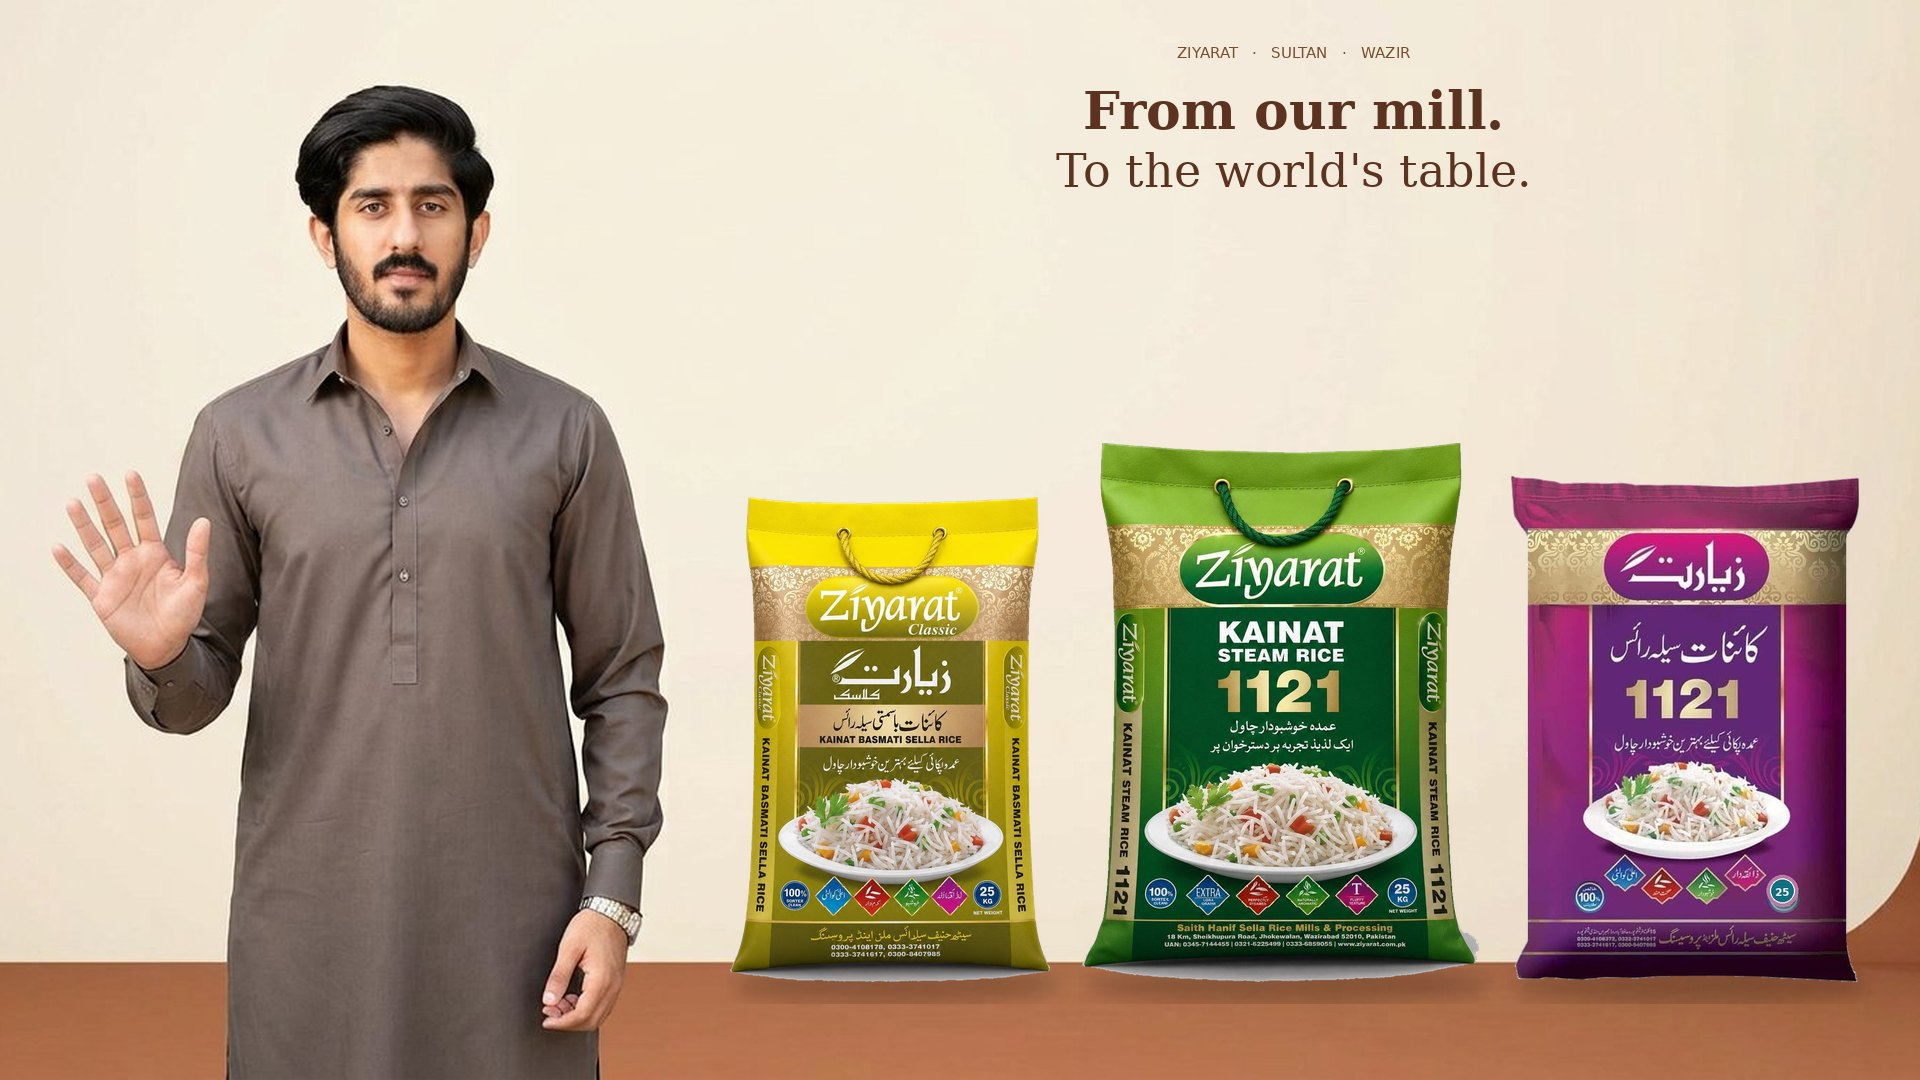
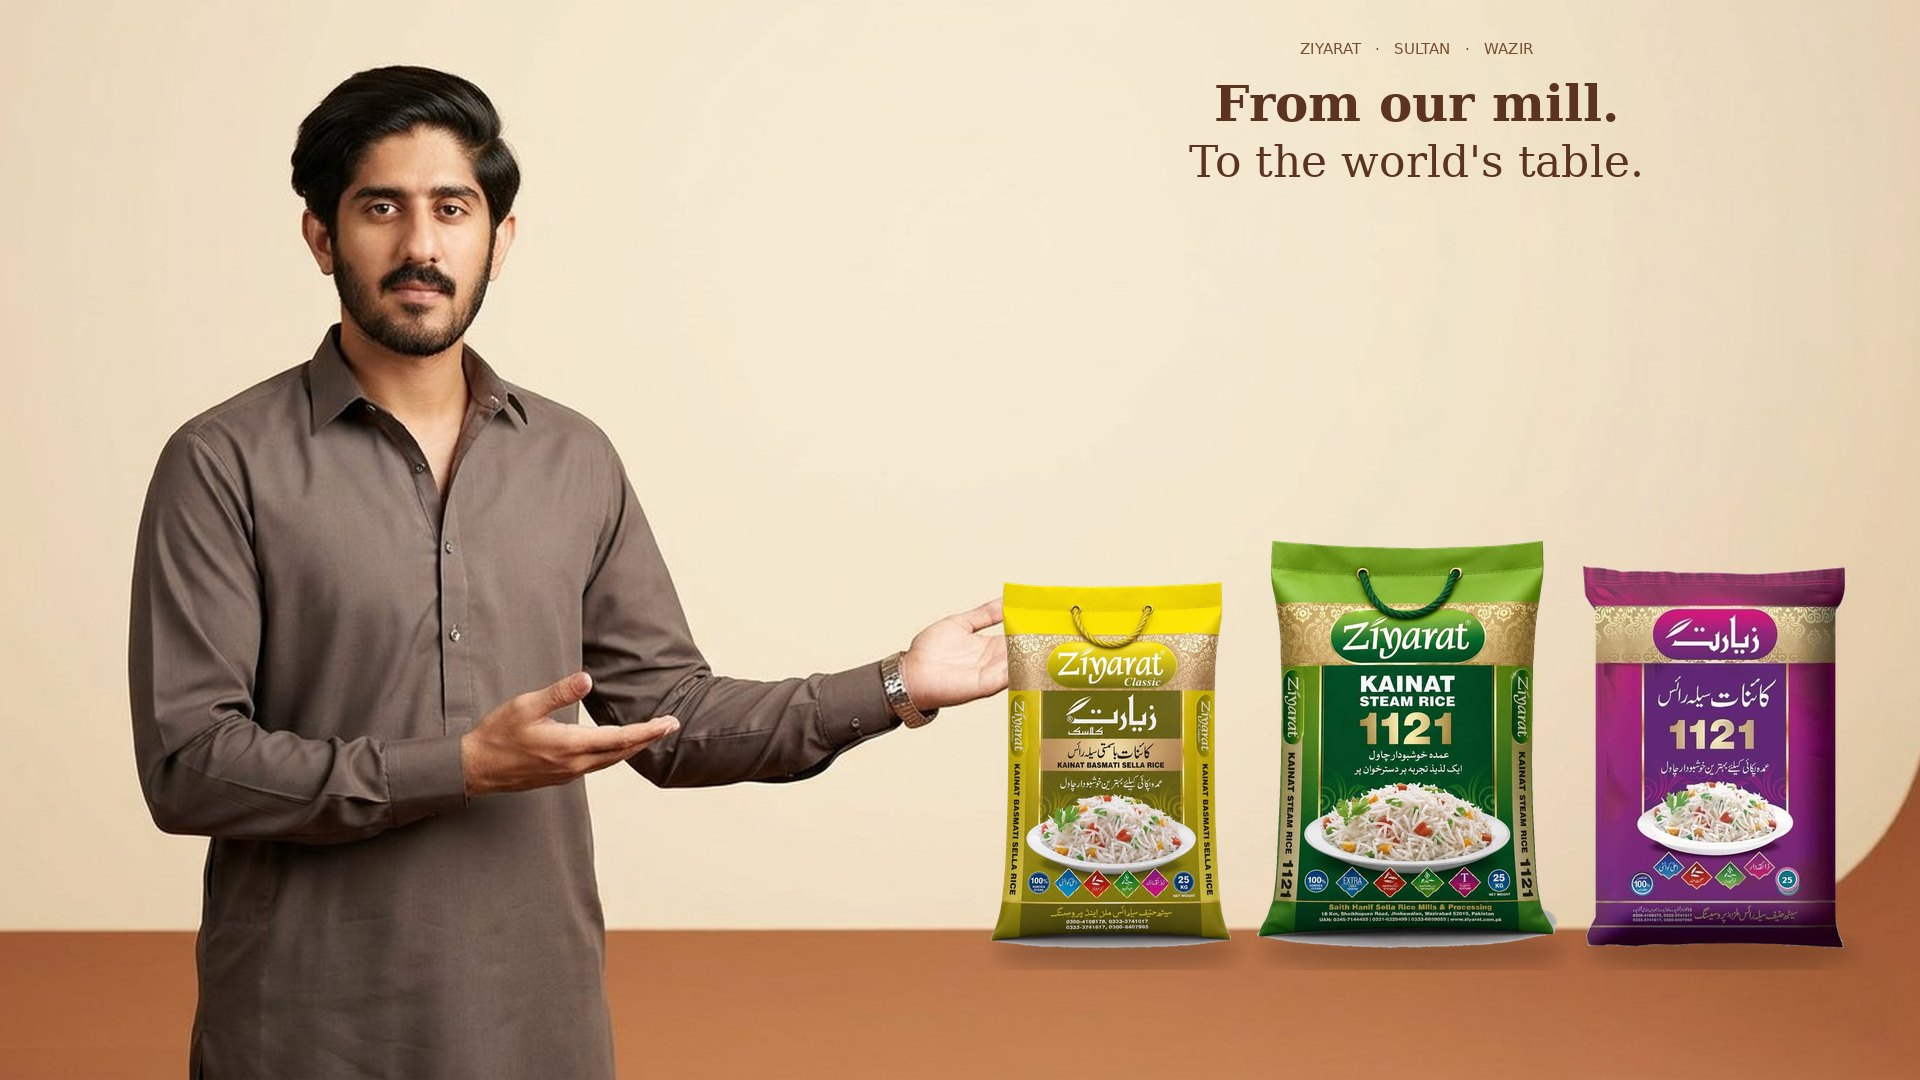
Slide 2: presenting pose, packs clear of the hands.
Ambassador introduces the range; full mill bags sit to the right with a gap so nothing covers the portrait.

diff --git a/index.html b/index.html
@@ -75,7 +75,7 @@
         </article>
 
         <article class="slide slide-campaign">
-          <img src="assets/images/hero-slide-packs.jpg?v=5" alt="Saith Hanif Rice Mills — Ziyarat, Sultan and Wazir packs" width="1920" height="1080" loading="lazy" decoding="async">
+          <img src="assets/images/hero-slide-packs.jpg?v=6" alt="Saith Hanif Rice Mills — Ziyarat, Sultan and Wazir packs" width="1920" height="1080" loading="lazy" decoding="async">
           <div class="hero-shade"></div>
           <div class="hero-content hero-center">
             <div class="btn-row hero-actions">
